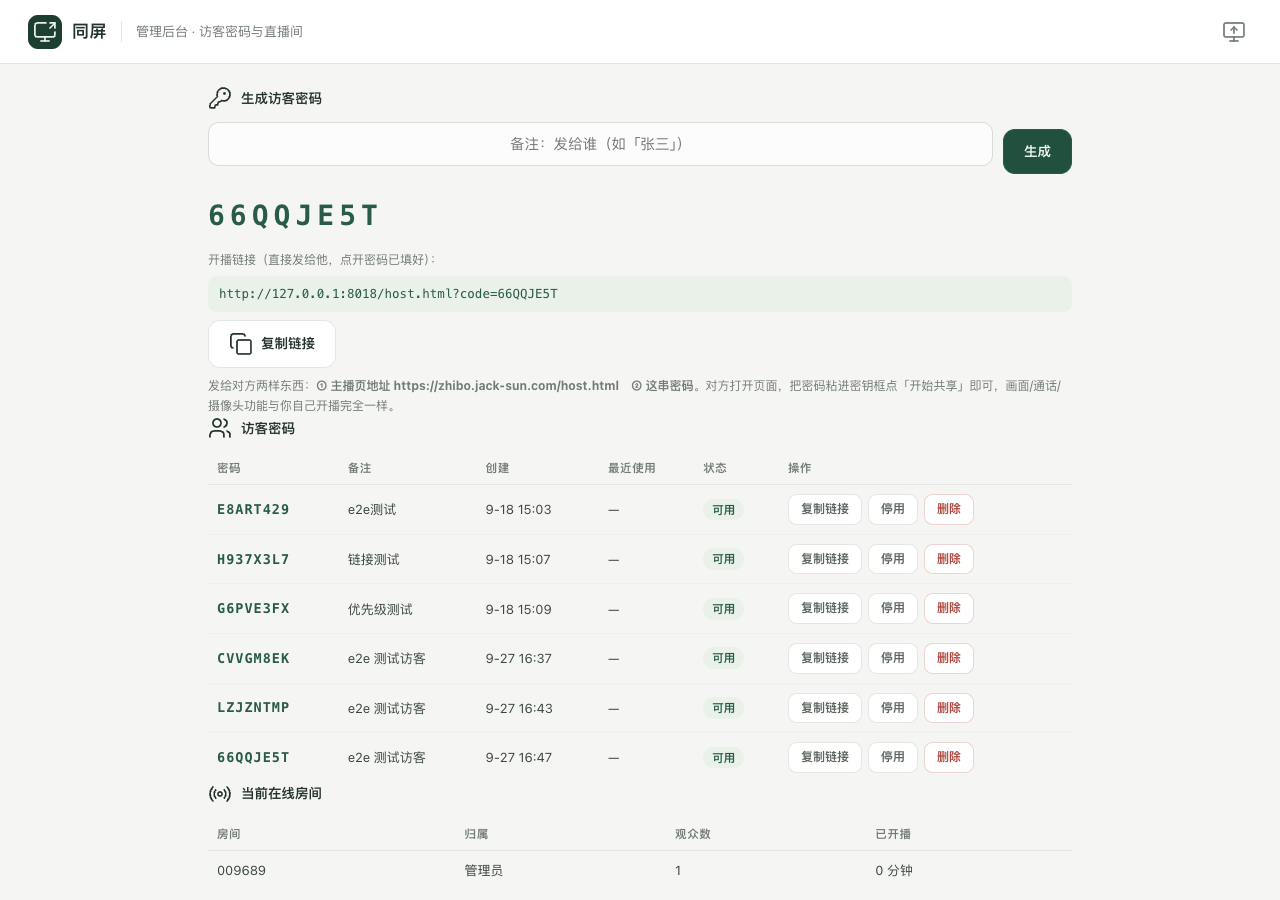
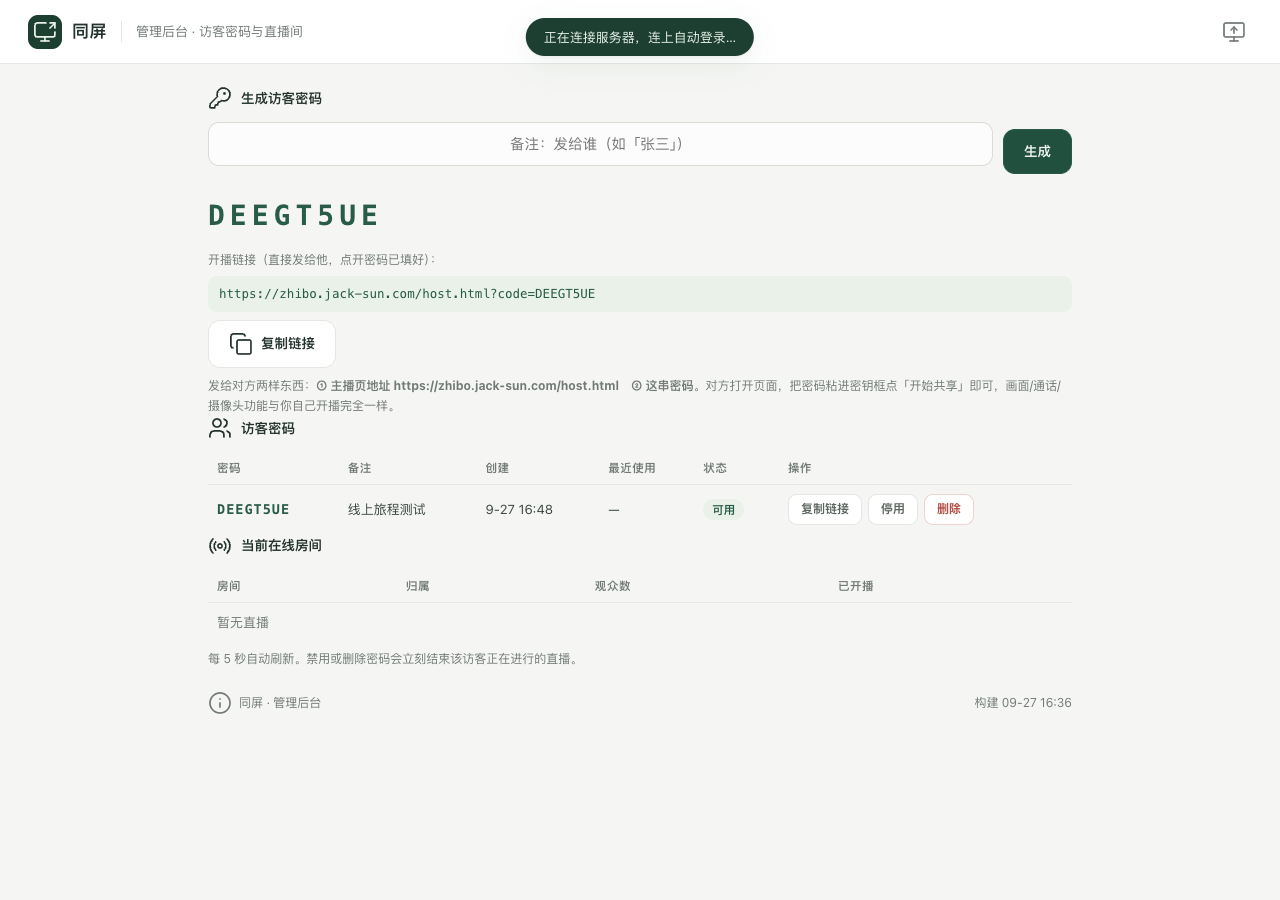
admin 登录页垂直居中收口

diff --git a/web/host.html b/web/host.html
@@ -1,5 +1,5 @@
 <!DOCTYPE html>
-<html lang="zh-CN" data-build="09-27 16:47">
+<html lang="zh-CN" data-build="09-27 16:53">
 <head>
 <meta charset="utf-8">
 <meta name="viewport" content="width=device-width, initial-scale=1, viewport-fit=cover">
@@ -56,7 +56,7 @@
         </div>
         <div class="stage-bottom">
           <div class="stage-bottom-left"><span class="status-dot off" id="stageDot"></span><span id="stageStatus">未开播 · 画面与声音仅本机可见</span></div>
-          <span class="stage-footnote">构建 09-27 16:47 · screen-share-live</span>
+          <span class="stage-footnote">构建 09-27 16:53 · screen-share-live</span>
         </div>
       </section>
       <div id="liveStats" style="display:none;margin-top:2px"><div class="statrow">

diff --git a/web/admin.html b/web/admin.html
@@ -148,6 +148,7 @@ function connect() {
         $('stateBadge').textContent = '已登录';
         $('stateBadge').className = 'badge on';
         if ($('stateRow')) $('stateRow').style.display = 'none';
+        document.querySelector('.admin-body').classList.remove('login-mode');
         $('loginCard').style.display = 'none';
         $('mainCard').style.display = 'block';
         $('listCard').style.display = 'block';
@@ -198,6 +199,7 @@ function refreshIcons() {
 
 // 进入登录流程：显示登录卡 + 回填用户名
 function enterLoginFlow() {
+  document.querySelector('.admin-body').classList.add('login-mode');
   showLogin();
   $('stateBadge').textContent = '请登录';
   $('stateBadge').className = 'badge';

diff --git a/web/theme.css b/web/theme.css
@@ -273,6 +273,9 @@ body.viewer-dark{background:#000;color:#e8e8ee}
 
 /* ---------- 管理后台 ---------- */
 .admin-body{max-width:920px}
+".admin-body.login-mode{min-height:calc(100vh - 65px);display:flex;flex-direction:column}
+.admin-body.login-mode #loginCard{margin-top:auto;margin-bottom:auto}
+.admin-body.login-mode .page-footer{margin-top:auto;padding-bottom:20px}
 .admin-login{max-width:440px;margin:40px auto 0;text-align:center;padding:30px 28px 24px}
 .admin-login .admin-login-icon{width:52px;height:52px;border-radius:14px;background:var(--light-green);color:var(--green);display:inline-flex;align-items:center;justify-content:center;margin-bottom:14px}
 .admin-login .admin-login-icon .icon{width:26px;height:26px}

diff --git a/web/viewer.html b/web/viewer.html
@@ -1,5 +1,5 @@
 <!DOCTYPE html>
-<html lang="zh-CN" data-build="09-27 16:47">
+<html lang="zh-CN" data-build="09-27 16:53">
 <head>
 <meta charset="utf-8">
 <meta name="viewport" content="width=device-width, initial-scale=1, maximum-scale=1, user-scalable=no, viewport-fit=cover">
